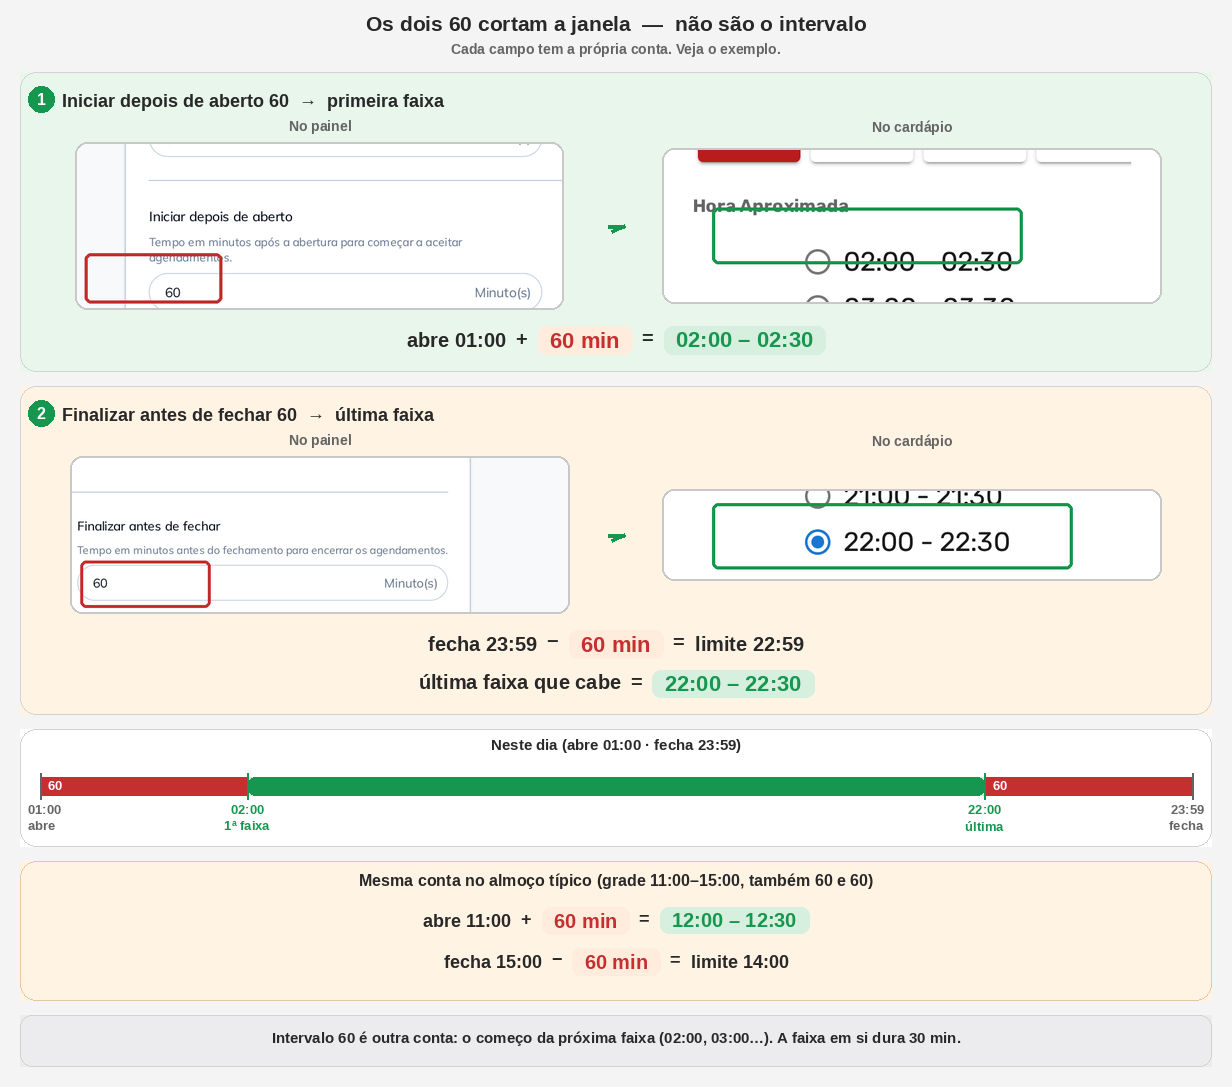
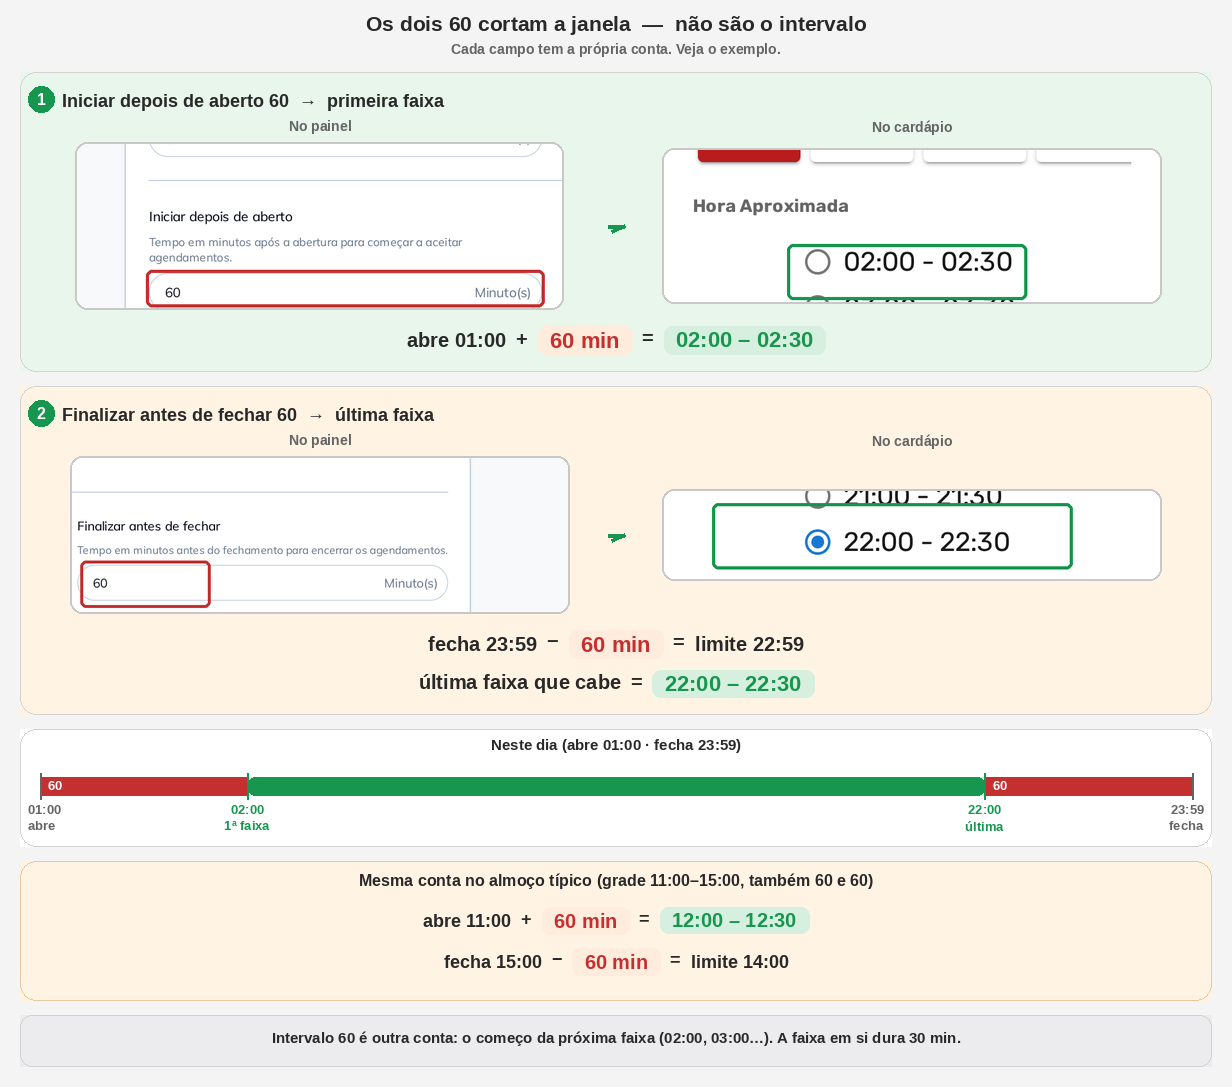
docs(#70): alinha seta 1 no menu e anéis do exemplo 60
A seta 1 apontava para Marketing; agora cai em Agendamento.
No primeiro exemplo, o anel vermelho envolve o campo 60 e o verde a faixa 02:00–02:30.

diff --git a/manuais/cardapio-digital-agendamento/annotate.py b/manuais/cardapio-digital-agendamento/annotate.py
@@ -386,7 +386,7 @@ def montar_horarios_didatico(nome_out):
     """Dois exemplos separados: iniciar 60 → 1ª faixa; finalizar 60 → última."""
     ini = anel(
         crop_frac("02-tempo.png", (0.225, 0.400, 0.355, 0.195)),
-        (0.02, 0.66, 0.28, 0.30), RED, 5, 10,
+        (0.145, 0.76, 0.815, 0.22), RED, 5, 10,
     )
     fim = anel(
         crop_frac("02-tempo.png", (0.575, 0.400, 0.385, 0.195)),
@@ -394,7 +394,7 @@ def montar_horarios_didatico(nome_out):
     )
     slot_ini = anel(
         crop_frac("05-cel-calendario.png", (0.00, 0.198, 1.00, 0.145)),
-        (0.10, 0.38, 0.62, 0.36), GREEN, 5, 10,
+        (0.250, 0.615, 0.480, 0.355), GREEN, 5, 10,
     )
     slot_fim = anel(
         crop_frac("06-cel-horarios.png", (0.00, 0.70, 1.00, 0.085)),
@@ -448,7 +448,7 @@ def montar_horarios_didatico(nome_out):
 
 
 annotate("01-aba-switches.png", [
-    (1, 0.078, 0.325, 0.165, 0.260),
+    (1, 0.128, 0.275, 0.200, 0.205),
     (2, 0.500, 0.175, 0.280, 0.130),
     (3, 0.860, 0.355, 0.740, 0.305),
     (4, 0.860, 0.470, 0.740, 0.530),
